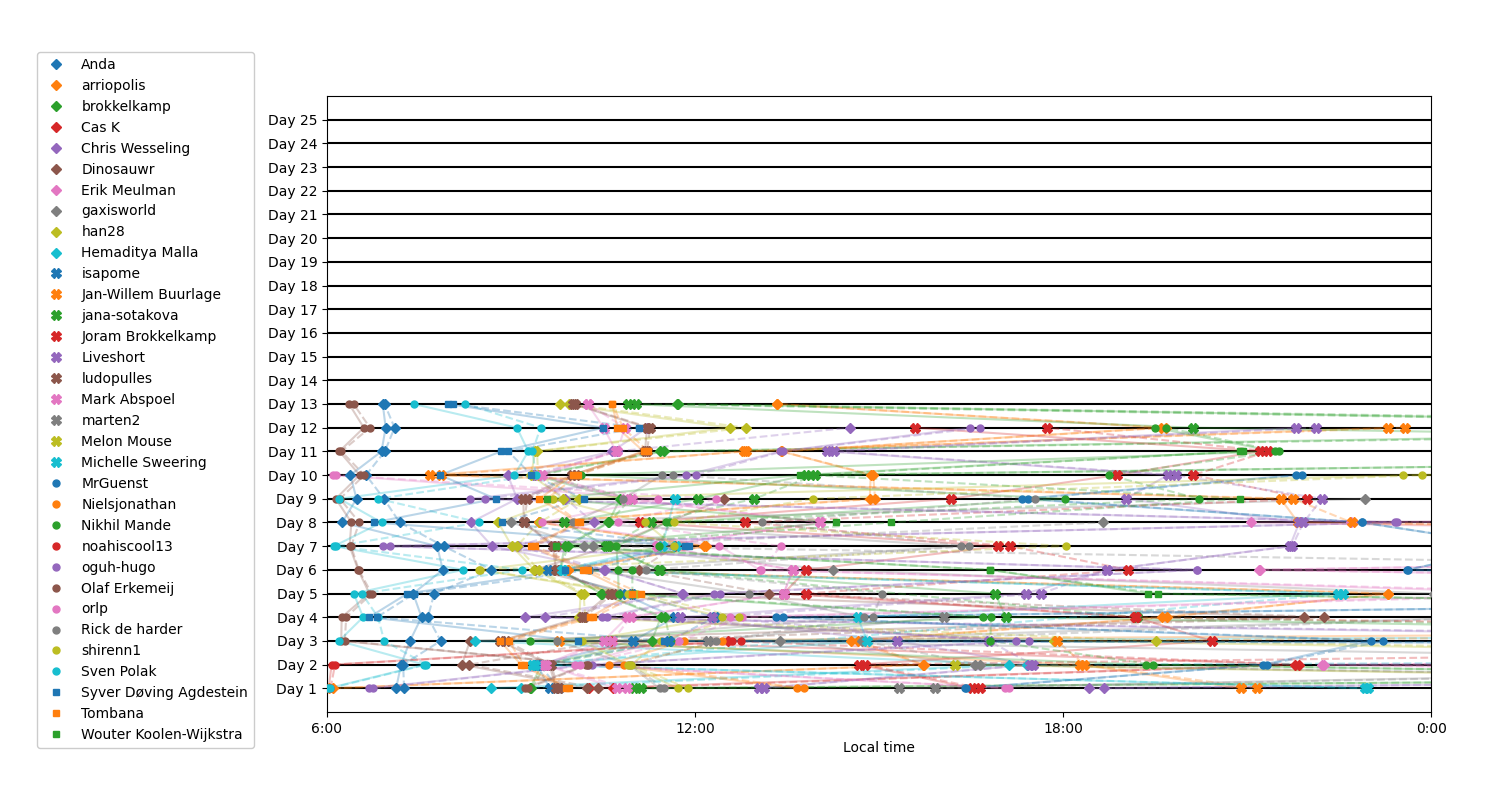
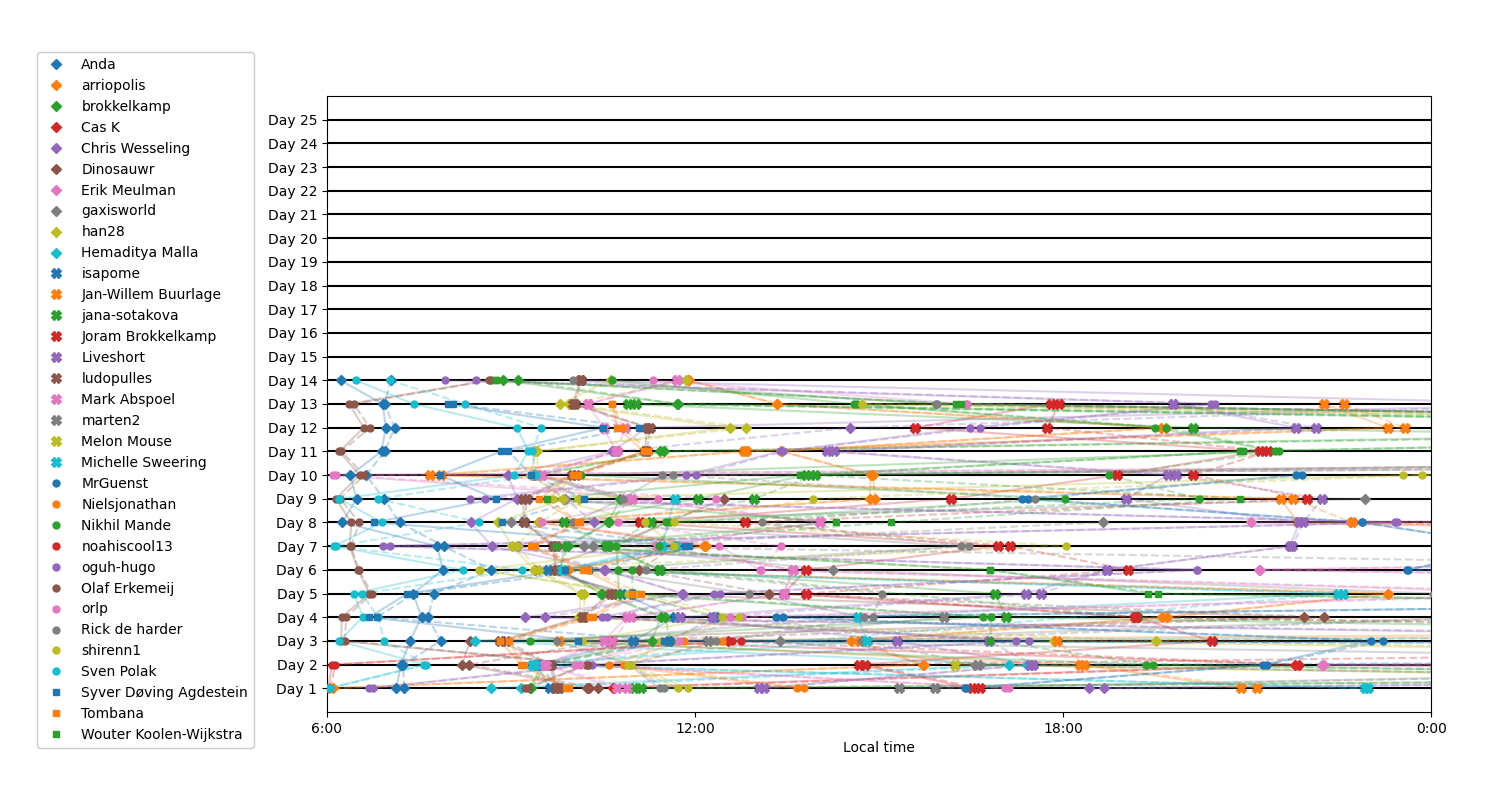
Added solutions to Day 14.

Changed region(s): [[0.2147, 0.4688, 0.9507, 0.5938], [0.46, 0.5625, 0.5213, 0.5938]]

diff --git a/Day14/part2.py b/Day14/part2.py
@@ -1,0 +1,38 @@
+import sys
+
+itr = iter(sys.stdin)
+s = list(next(itr).strip())
+next(itr)
+
+d = {}
+for line in itr:
+    lr,m = line.strip().split(' -> ')
+    l,r = tuple(lr)
+    d[(l,r)] = m
+
+freqs = {}
+for l,r in zip(s[:-1],s[1:]):
+    if (l,r) not in freqs: freqs[(l,r)] = 0
+    freqs[(l,r)] += 1
+
+for _ in range(40):
+    new_freqs = {}
+    for (l,r),n in freqs.items():
+        m = d[(l,r)]
+        if (l,m) not in new_freqs: new_freqs[(l,m)] = 0
+        new_freqs[(l,m)] += n
+        if (m,r) not in new_freqs: new_freqs[(m,r)] = 0
+        new_freqs[(m,r)] += n
+    freqs = new_freqs
+
+char_freqs = {}
+for (l,r),n in freqs.items():
+    if l not in char_freqs: char_freqs[l] = 0
+    char_freqs[l] += n
+    if r not in char_freqs: char_freqs[r] = 0
+    char_freqs[r] += n
+char_freqs[s[0]] += 1
+char_freqs[s[-1]] += 1
+char_freqs = {c : n//2 for c,n in char_freqs.items()}
+
+print(max(char_freqs.values()) - min(char_freqs.values()))

diff --git a/Day14/part2-oneline-formatted.py b/Day14/part2-oneline-formatted.py
@@ -1,0 +1,20 @@
+print(next(max(c.values()) - min(c.values())
+    for s,p in [open('input.txt').read().strip().split('\n\n')]
+    for d in [{(l,r) : m for q in p.split('\n') for lr,m in [q.split(' -> ')] for l,r in [tuple(lr)]}]
+    for f in [{}]
+    for _ in [[(f.update({(l,r) : 1 if (l,r) not in f else f[(l,r)]+1})) for l,r in zip(s[:-1],s[1:])]]
+    for _ in [[(
+        f.clear(),
+        [
+            f.update({
+                (l,m) : n if (l,m) not in f else f[(l,m)] + n,
+                (m,r) : n if (m,r) not in f else f[(m,r)] + n
+            })
+            for (l,r),n in g.items() for m in [d[(l,r)]]]
+    ) for _ in range(40) for g in [dict(f)]]]
+    for c in [{s[0] : 1, s[-1] : 1}]
+    for _ in [[(
+        c.update({l : n if l not in c else c[l] + n}),
+        c.update({r : n if r not in c else c[r] + n})
+    ) for (l,r),n in f.items()] + [c.update({l : n//2 for l,n in c.items()})]]
+))

diff --git a/Day14/part1-oneline.py b/Day14/part1-oneline.py
@@ -1,0 +1,1 @@
+print(next(max(c.values()) - min(c.values()) for s,p in [open('input.txt').read().strip().split('\n\n')] for d in [{(l,r) : m for q in p.split('\n') for lr,m in [q.split(' -> ')] for l,r in [tuple(lr)]}] for f in [{}] for _ in [[(f.update({(l,r) : 1 if (l,r) not in f else f[(l,r)]+1})) for l,r in zip(s[:-1],s[1:])]] for _ in [[(f.clear(), [f.update({(l,m) : n if (l,m) not in f else f[(l,m)] + n, (m,r) : n if (m,r) not in f else f[(m,r)] + n}) for (l,r),n in g.items() for m in [d[(l,r)]]]) for _ in range(10) for g in [dict(f)]]] for c in [{s[0] : 1, s[-1] : 1}] for _ in [[(c.update({l : n if l not in c else c[l] + n}), c.update({r : n if r not in c else c[r] + n})) for (l,r),n in f.items()] + [c.update({l : n//2 for l,n in c.items()})]]))

diff --git a/Day14/part2-oneline.py b/Day14/part2-oneline.py
@@ -1,0 +1,1 @@
+print(next(max(c.values()) - min(c.values()) for s,p in [open('input.txt').read().strip().split('\n\n')] for d in [{(l,r) : m for q in p.split('\n') for lr,m in [q.split(' -> ')] for l,r in [tuple(lr)]}] for f in [{}] for _ in [[(f.update({(l,r) : 1 if (l,r) not in f else f[(l,r)]+1})) for l,r in zip(s[:-1],s[1:])]] for _ in [[(f.clear(), [f.update({(l,m) : n if (l,m) not in f else f[(l,m)] + n, (m,r) : n if (m,r) not in f else f[(m,r)] + n}) for (l,r),n in g.items() for m in [d[(l,r)]]]) for _ in range(40) for g in [dict(f)]]] for c in [{s[0] : 1, s[-1] : 1}] for _ in [[(c.update({l : n if l not in c else c[l] + n}), c.update({r : n if r not in c else c[r] + n})) for (l,r),n in f.items()] + [c.update({l : n//2 for l,n in c.items()})]]))

diff --git a/Day14/part1.py b/Day14/part1.py
@@ -1,0 +1,24 @@
+import sys
+
+itr = iter(sys.stdin)
+s = list(next(itr).strip())
+next(itr)
+
+d = {}
+for line in itr:
+    lr,m = line.strip().split(' -> ')
+    l,r = tuple(lr)
+    d[(l,r)] = m
+
+for _ in range(10):
+    new_s = [s[0]]
+    for a,b in zip(s[:-1],s[1:]):
+        new_s.extend([d[(a,b)], b])
+    s = new_s
+
+freqs = {}
+for c in s:
+    if c not in freqs: freqs[c] = 0
+    freqs[c] += 1
+
+print(max(freqs.values()) - min(freqs.values()))
